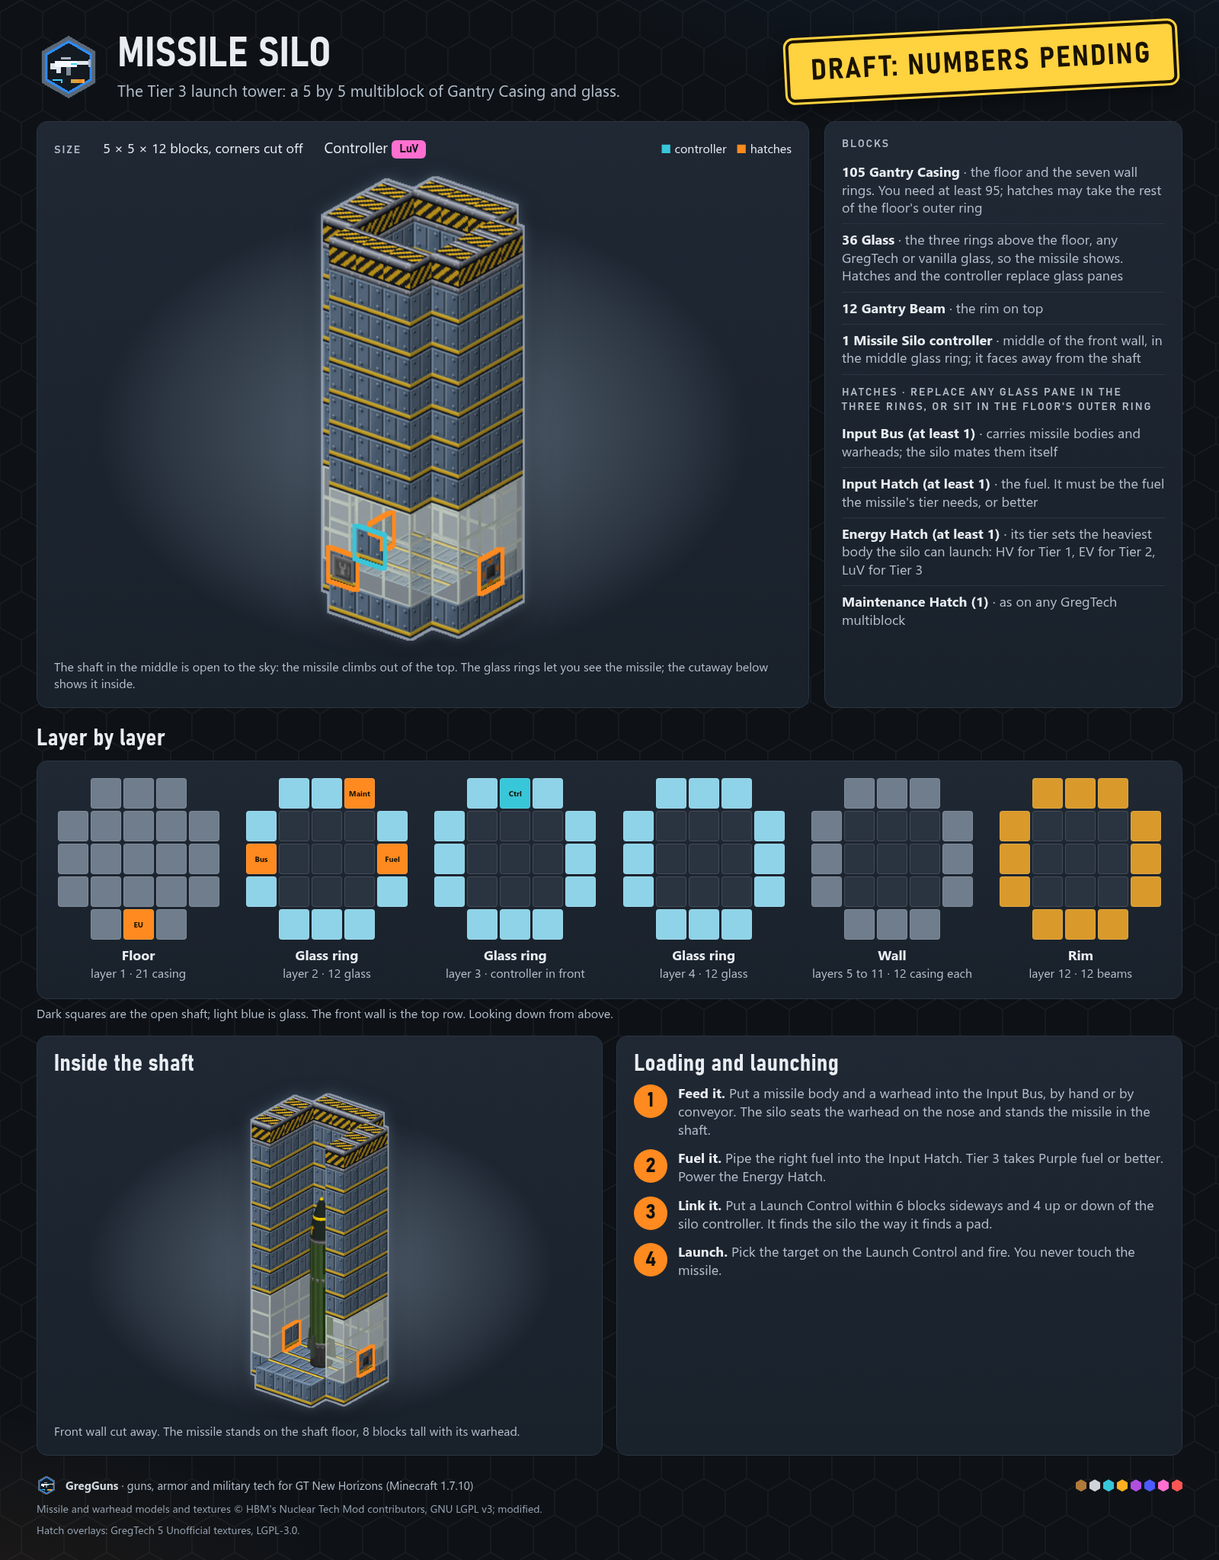
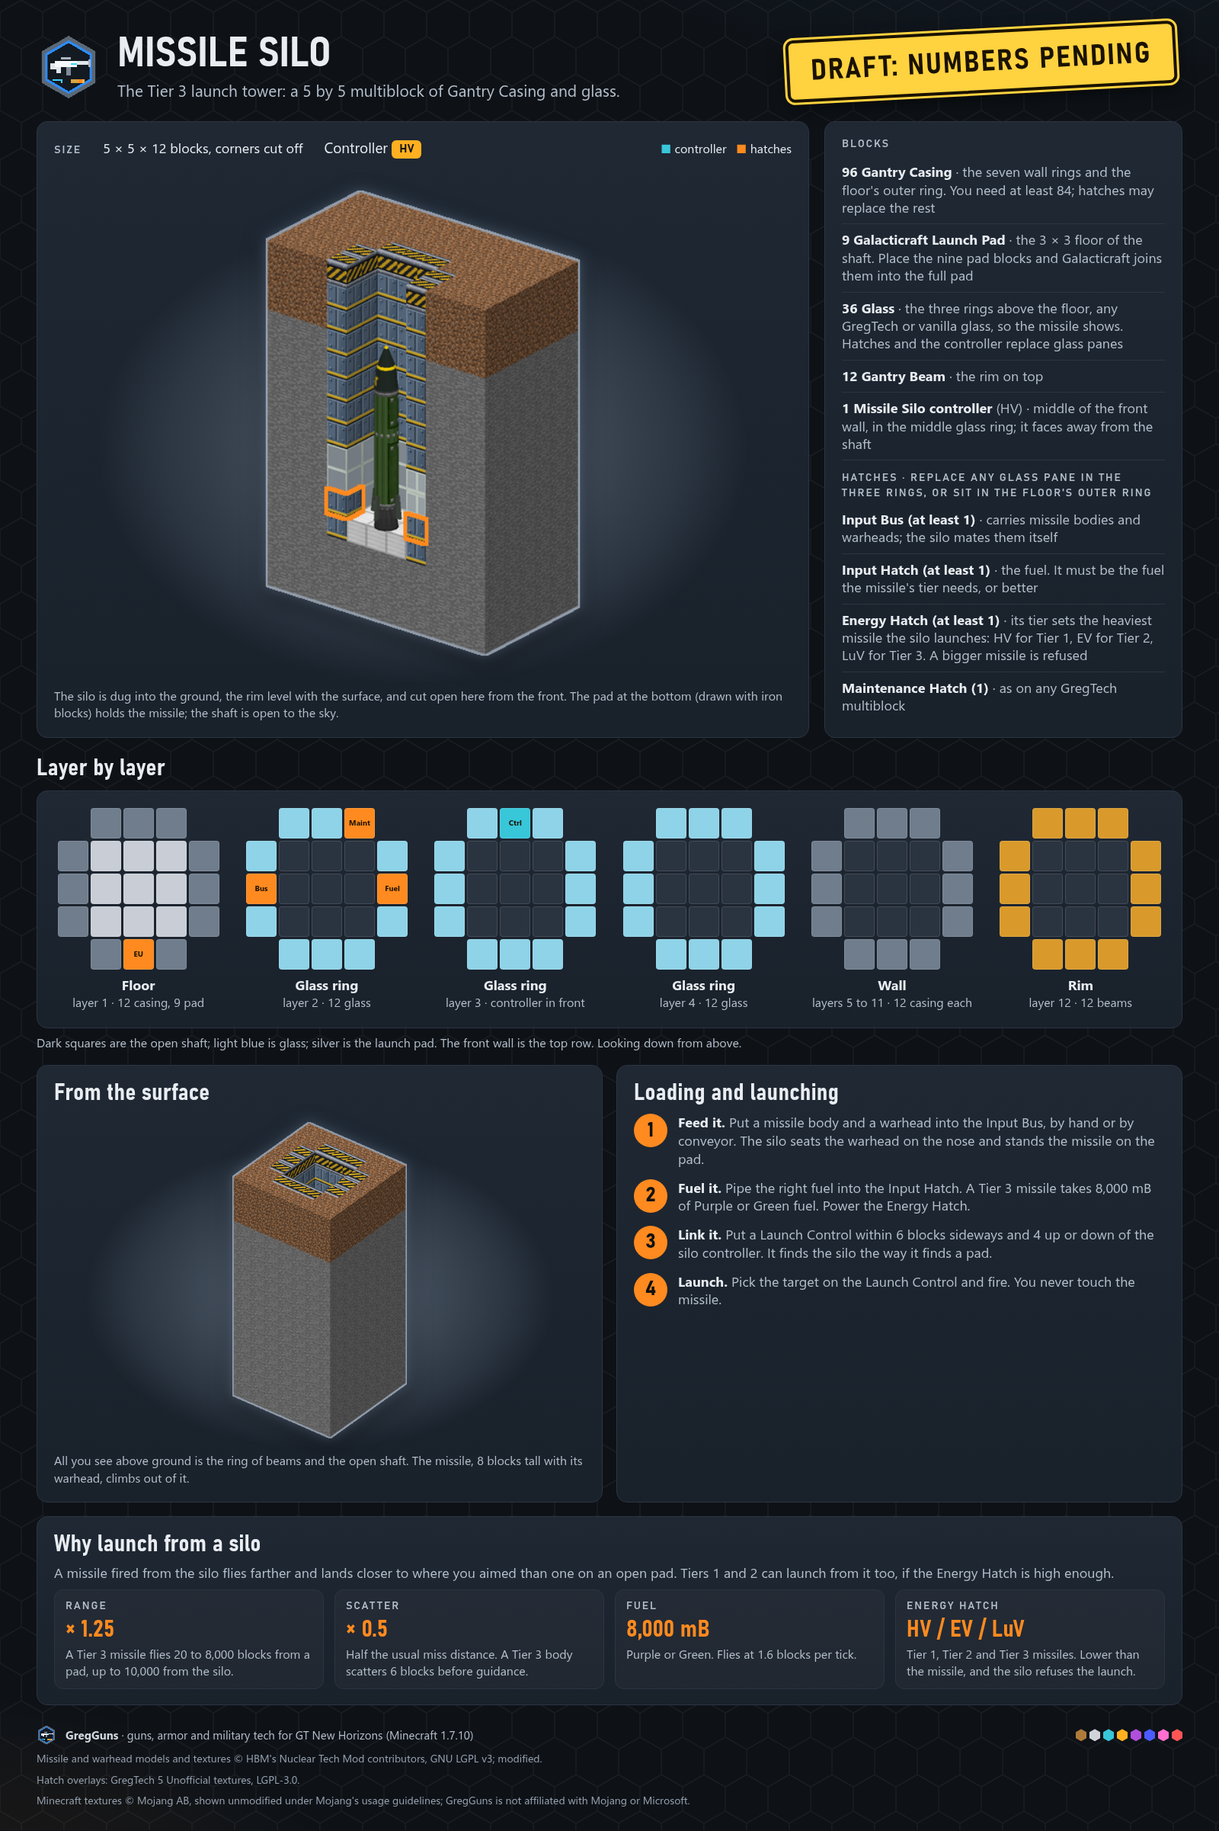
ICBM guides: silo sheet shows the buried silo, Galacticraft pad floor (drawn as iron), HV controller, energy-hatch tiers and the silo range and scatter bonus; quest text synced

Changed region(s): [[0.0312, 0.0, 0.9688, 0.9849], [0.75, 0.8617, 0.9688, 0.9541]]

diff --git a/tools/asset-gen/infographics/pages_icbm_silo.py b/tools/asset-gen/infographics/pages_icbm_silo.py
@@ -22,8 +22,9 @@ import kit as K  # noqa: E402
 import gt  # noqa: E402
 import render3d as R  # noqa: E402
 import scenes as S  # noqa: E402
+import vanilla  # noqa: E402
 from kit import chip, esc  # noqa: E402
-from pages import gti, img, page_doc  # noqa: E402
+from pages import MOJANG_CREDIT, gti, img, page_doc  # noqa: E402
 
 NTM = K.ASSETS / "models/thirdparty/ntm"
 NTM_TEX = K.ASSETS / "textures/models/thirdparty/ntm"
@@ -38,12 +39,12 @@ def plan_cells() -> list[tuple[int, int]]:
 
 
 def silo_cells() -> dict:
-    """{(x, y, z): char}: C casing, G glass, B beam, ~ the controller. Floor y0 is the full plate; y1..y3 are glass rings (the controller
+    """{(x, y, z): char}: C casing, P launch pad, G glass, B beam, ~ the controller. Floor y0 is a casing ring around the 3 x 3 pad; y1..y3 are glass rings (the controller
     replaces the middle of the front one at y2); y4..y10 are casing rings; y11 is the rim. Matches SiloShape.PIECES."""
     cells = {}
     for x, z in plan_cells():
         in_shaft = x in SHAFT and z in SHAFT
-        cells[(x, 0, z)] = "C"
+        cells[(x, 0, z)] = "P" if in_shaft else "C"
         if in_shaft:
             continue
         for y in range(1, 11):
@@ -61,11 +62,13 @@ HATCHES = [((0, 1, 2), "input_bus", LEFT), ((4, 1, 2), "input_hatch", RIGHT), ((
 def silo_build() -> S.Build:
     b = S.Build("silo")
     gc = S._casing("gantry_casing")
-    b.define("casing", "Gantry Casing", gc, "walls and floor")
+    b.define("casing", "Gantry Casing", gc, "walls and the floor ring")
     b.define("beam", "Gantry Beam", S._casing("gantry_beam"), "the rim")
+    # D66: Galacticraft textures never go on a committed sheet, so the pad is drawn as vanilla iron blocks (D55).
+    b.define("pad", "Galacticraft Launch Pad", vanilla.texture("blocks/iron_block"), "9 pad blocks, drawn here as iron")
     b.define("glass", "Borosilicate Glass", gt.bartworks("BoronSilicateGlassBlock"), "any glass tier works")
     b.define("ctrl", "Missile Silo", (gc, gc, gc), "controller, middle of the front wall")
-    b.put(silo_cells(), {"C": "casing", "G": "glass", "B": "beam", "~": ("ctrl", FRONT)})
+    b.put(silo_cells(), {"C": "casing", "P": "pad", "G": "glass", "B": "beam", "~": ("ctrl", FRONT)})
     for pos, kind, facing in HATCHES:
         b.hatch(pos, kind, facing, gc)
     return b
@@ -76,30 +79,52 @@ def missile_scene():
     body = R.obj_scene(NTM / "missile_body_t3.obj", NTM_TEX / "missile_body_t3.png")
     head = R.obj_scene(NTM / "warhead_t3.obj", NTM_TEX / "warhead_t3.png")
     sc = R.Scene()
-    sc.extend(body, R.tr(2 - 0.5 + 0, 1, 2 - 0.5))
-    sc.extend(head, R.tr(2 - 0.5 + 0, 1 + 6, 2 - 0.5))
+    sc.extend(body, R.tr(2 - 0.5 + 0, 1.2, 2 - 0.5))
+    sc.extend(head, R.tr(2 - 0.5 + 0, 1.2 + 6, 2 - 0.5))
     return sc
 
 
-def render(b: S.Build, yaw=-35, pitch=28, ppu=34, cut=None, missile=True, marks=True) -> Path:
+def ground_cells() -> dict:
+    """The earth the silo is dug into, rim flush with the ground: dirt on top of stone, around the plan and under the floor."""
+    own = set(plan_cells())
+    cells = {}
+    for x in range(-3, 8):
+        for z in range(-3, 8):
+            for y in range(-3, 12):
+                if y >= 0 and (x, z) in own:
+                    continue
+                if y < 0 and (x, z) in own and False:
+                    continue
+                cells[(x, y, z)] = "dirt" if y >= 9 else "stone"
+    return cells
+
+
+def render(b: S.Build, yaw=-35, pitch=28, ppu=34, cut=None, missile=True, marks=True, ground=False) -> Path:
     tex_sig = hashlib.sha1((NTM / "missile_body_t3.obj").read_bytes() + (NTM / "warhead_t3.obj").read_bytes()).hexdigest()[:8]
+    bl = dict(b.blocks)
+    tex = dict(b.tex)
+    if ground:
+        bl.update(ground_cells())
+        tex["dirt"] = vanilla.texture("blocks/dirt")
+        tex["stone"] = vanilla.texture("blocks/stone")
+    if cut is not None:
+        bl = {p: v for p, v in bl.items() if not cut(*p)}
 
     def make():
-        bl = b.blocks if cut is None else {p: v for p, v in b.blocks.items() if not cut(*p)}
-        tags = {k: (2 if k == "ctrl" else 1) for k in b.tex if k.startswith("h_") or k == "ctrl"} if marks else None
-        scene = R.voxel_scene(bl, b.tex, tags)
+        tags = {k: (2 if k == "ctrl" else 1) for k in tex if k.startswith("h_") or k == "ctrl"} if marks else None
+        scene = R.voxel_scene(bl, tex, tags)
         if missile:
             scene.extend(missile_scene())
         return R.trim(R.render(scene, yaw=yaw, pitch=pitch, ppu=ppu, ss=2, outline=K.RIM,
                                marks={1: K.MARK_HATCH, 2: K.MARK_CONTROLLER} if marks else None), 3)
-    params = dict(k=sorted(map(str, b.blocks.items())), t=sorted(map(str, b.tex.items())), y=yaw, p=pitch, u=ppu, m=missile,
-                  c=cut is not None, g=marks, s=tex_sig, v=1)
+    params = dict(k=sorted(map(str, bl.items())), t=sorted(map(str, tex.items())), y=yaw, p=pitch, u=ppu, m=missile,
+                  g=marks, s=tex_sig, v=3)
     return K._cached("silo", params, make)
 
 
 # ---------------------------------------------------------------- layer diagrams
 
-COLORS = {"C": "#6f7d8d", "G": "#8fd3e8", "B": "#d99a2b", "~": "#38c6d9", "h": "#ff8a1f", "S": "#2a3340", ".": "transparent"}
+COLORS = {"P": "#c9ced6", "C": "#6f7d8d", "G": "#8fd3e8", "B": "#d99a2b", "~": "#38c6d9", "h": "#ff8a1f", "S": "#2a3340", ".": "transparent"}
 
 
 def layer_grid(y: int, cells: dict, hatch_pos: dict, label: str) -> str:
@@ -112,7 +137,7 @@ def layer_grid(y: int, cells: dict, hatch_pos: dict, label: str) -> str:
                 ch, txt = "h", hatch_pos[(x, y, z)]
             elif ch == "~":
                 txt = "Ctrl"
-            elif ch is not None and ch in "CG":
+            elif ch is not None and ch in "CGP":
                 txt = ""
             elif ch == "B":
                 txt = ""
@@ -152,12 +177,12 @@ def silo() -> str:
     b = silo_build()
     cells = silo_cells()
     hp = {pos: HATCH_NAME[k] for pos, k, _ in HATCHES}
-    hero = render(b, yaw=-38, pitch=26, ppu=34, missile=False)
-    cutaway = render(b, yaw=-38, pitch=26, ppu=34, cut=lambda x, y, z: z <= 1 and x >= 1 and x <= 3 and y >= 1)
+    hero = render(b, yaw=-38, pitch=24, ppu=27, ground=True, cut=lambda x, y, z: z <= 1)
+    surface = render(b, yaw=-38, pitch=34, ppu=30, ground=True, missile=False, marks=False, cut=lambda x, y, z: x < -1 or z < -1 or x > 5 or z > 5)
     n_casing = sum(1 for v in cells.values() if v == "C")
     n_glass = sum(1 for v in cells.values() if v == "G")
     n_beam = sum(1 for v in cells.values() if v == "B")
-    layers = (layer_grid(0, cells, hp, "<b>Floor</b>layer 1 &middot; 21 casing")
+    layers = (layer_grid(0, cells, hp, "<b>Floor</b>layer 1 &middot; 12 casing, 9 pad")
               + layer_grid(1, cells, hp, "<b>Glass ring</b>layer 2 &middot; 12 glass")
               + layer_grid(2, cells, hp, "<b>Glass ring</b>layer 3 &middot; controller in front")
               + layer_grid(3, cells, hp, "<b>Glass ring</b>layer 4 &middot; 12 glass")
@@ -168,36 +193,44 @@ def silo() -> str:
         for name, why in [
             ("Input Bus (at least 1)", "carries missile bodies and warheads; the silo mates them itself"),
             ("Input Hatch (at least 1)", "the fuel. It must be the fuel the missile's tier needs, or better"),
-            ("Energy Hatch (at least 1)", "its tier sets the heaviest body the silo can launch: HV for Tier 1, EV for Tier 2, LuV for Tier 3"),
+            ("Energy Hatch (at least 1)", "its tier sets the heaviest missile the silo launches: HV for Tier 1, EV for Tier 2, LuV for Tier 3. A bigger missile is refused"),
             ("Maintenance Hatch (1)", "as on any GregTech multiblock"),
         ])
     body = f"""<div style="display:grid;grid-template-columns:1fr 470px;gap:20px">
 <div class="card" style="display:flex;flex-direction:column;min-height:680px">
-<div style="display:flex;gap:28px;align-items:baseline;flex-wrap:wrap"><span class="label">Size</span><span style="font-size:18px">5 &times; 5 &times; 12 blocks, corners cut off</span><span>Controller {chip("LuV")}</span>
+<div style="display:flex;gap:28px;align-items:baseline;flex-wrap:wrap"><span class="label">Size</span><span style="font-size:18px">5 &times; 5 &times; 12 blocks, corners cut off</span><span>Controller {chip("HV")}</span>
 <span style="font-size:16px;margin-left:auto"><b style="color:#38c6d9">&#9632;</b> controller &nbsp; <b style="color:var(--orange)">&#9632;</b> hatches</span></div>
 <div class="spot" style="flex:1;display:flex;align-items:center;justify-content:center;padding:10px 0;margin-top:8px">{img(hero, h=620, style="max-width:100%")}</div>
-<div class="muted" style="font-size:16px;margin-top:8px">The shaft in the middle is open to the sky: the missile climbs out of the top. The glass rings let you see the missile; the cutaway below shows it inside.</div></div>
+<div class="muted" style="font-size:16px;margin-top:8px">The silo is dug into the ground, the rim level with the surface, and cut open here from the front. The pad at the bottom (drawn with iron blocks) holds the missile; the shaft is open to the sky.</div></div>
 <div class="card"><div class="label" style="margin-bottom:6px">Blocks</div>
-<div class="req"><div class="t" style="grid-column:1/3"><b>{n_casing} Gantry Casing</b> &middot; the floor and the seven wall rings. You need at least 95; hatches may take the rest of the floor's outer ring</div></div>
+<div class="req"><div class="t" style="grid-column:1/3"><b>{n_casing} Gantry Casing</b> &middot; the seven wall rings and the floor's outer ring. You need at least 84; hatches may replace the rest</div></div>
+<div class="req"><div class="t" style="grid-column:1/3"><b>9 Galacticraft Launch Pad</b> &middot; the 3 &times; 3 floor of the shaft. Place the nine pad blocks and Galacticraft joins them into the full pad</div></div>
 <div class="req"><div class="t" style="grid-column:1/3"><b>{n_glass + 1} Glass</b> &middot; the three rings above the floor, any GregTech or vanilla glass, so the missile shows. Hatches and the controller replace glass panes</div></div>
 <div class="req"><div class="t" style="grid-column:1/3"><b>{n_beam} Gantry Beam</b> &middot; the rim on top</div></div>
-<div class="req"><div class="t" style="grid-column:1/3"><b>1 Missile Silo controller</b> &middot; middle of the front wall, in the middle glass ring; it faces away from the shaft</div></div>
+<div class="req"><div class="t" style="grid-column:1/3"><b>1 Missile Silo controller</b> (HV) &middot; middle of the front wall, in the middle glass ring; it faces away from the shaft</div></div>
 <div class="label" style="margin:14px 0 4px">Hatches &middot; replace any glass pane in the three rings, or sit in the floor&#39;s outer ring</div>{hatch_rows}</div></div>
 <h2 style="margin:24px 0 12px">Layer by layer</h2>
 <div class="card" style="display:flex;justify-content:space-around;gap:10px;padding:22px 14px">{layers}</div>
-<div class="muted" style="font-size:16px;margin-top:8px">Dark squares are the open shaft; light blue is glass. The front wall is the top row. Looking down from above.</div>
+<div class="muted" style="font-size:16px;margin-top:8px">Dark squares are the open shaft; light blue is glass; silver is the launch pad. The front wall is the top row. Looking down from above.</div>
 <div class="grid" style="grid-template-columns:1fr 1fr;margin-top:18px">
-<div class="card"><h2 style="margin-bottom:8px">Inside the shaft</h2><div class="spot" style="display:flex;justify-content:center;padding:10px">{img(cutaway, h=420, style="max-width:100%")}</div>
-<div class="muted" style="font-size:16px;margin-top:6px">Front wall cut away. The missile stands on the shaft floor, 8 blocks tall with its warhead.</div></div>
+<div class="card"><h2 style="margin-bottom:8px">From the surface</h2><div class="spot" style="display:flex;justify-content:center;padding:10px">{img(surface, h=420, style="max-width:100%")}</div>
+<div class="muted" style="font-size:16px;margin-top:6px">All you see above ground is the ring of beams and the open shaft. The missile, 8 blocks tall with its warhead, climbs out of it.</div></div>
 <div class="card"><h2 style="margin-bottom:10px">Loading and launching</h2><div style="display:flex;flex-direction:column;gap:14px">
-<div class="step"><span class="num">1</span><div class="t"><b>Feed it.</b> Put a missile body and a warhead into the Input Bus, by hand or by conveyor. The silo seats the warhead on the nose and stands the missile in the shaft.</div></div>
-<div class="step"><span class="num">2</span><div class="t"><b>Fuel it.</b> Pipe the right fuel into the Input Hatch. Tier 3 takes Purple fuel or better. Power the Energy Hatch.</div></div>
+<div class="step"><span class="num">1</span><div class="t"><b>Feed it.</b> Put a missile body and a warhead into the Input Bus, by hand or by conveyor. The silo seats the warhead on the nose and stands the missile on the pad.</div></div>
+<div class="step"><span class="num">2</span><div class="t"><b>Fuel it.</b> Pipe the right fuel into the Input Hatch. A Tier 3 missile takes 8,000 mB of Purple or Green fuel. Power the Energy Hatch.</div></div>
 <div class="step"><span class="num">3</span><div class="t"><b>Link it.</b> Put a Launch Control within 6 blocks sideways and 4 up or down of the silo controller. It finds the silo the way it finds a pad.</div></div>
-<div class="step"><span class="num">4</span><div class="t"><b>Launch.</b> Pick the target on the Launch Control and fire. You never touch the missile.</div></div></div></div></div>"""
+<div class="step"><span class="num">4</span><div class="t"><b>Launch.</b> Pick the target on the Launch Control and fire. You never touch the missile.</div></div></div></div></div>
+<div class="card" style="margin-top:18px"><h2 style="margin-bottom:8px">Why launch from a silo</h2>
+<div class="muted" style="font-size:18px;margin-bottom:10px">A missile fired from the silo flies farther and lands closer to where you aimed than one on an open pad. Tiers 1 and 2 can launch from it too, if the Energy Hatch is high enough.</div>
+<div class="grid" style="grid-template-columns:repeat(4,minmax(0,1fr));gap:14px">
+<div class="wcard"><div class="label">Range</div><div class="cond o" style="font-size:30px;font-weight:700">&times; 1.25</div><div class="muted" style="font-size:16px">A Tier 3 missile flies 20 to 8,000 blocks from a pad, up to 10,000 from the silo.</div></div>
+<div class="wcard"><div class="label">Scatter</div><div class="cond o" style="font-size:30px;font-weight:700">&times; 0.5</div><div class="muted" style="font-size:16px">Half the usual miss distance. A Tier 3 body scatters 6 blocks before guidance.</div></div>
+<div class="wcard"><div class="label">Fuel</div><div class="cond o" style="font-size:30px;font-weight:700">8,000 mB</div><div class="muted" style="font-size:16px">Purple or Green. Flies at 1.6 blocks per tick.</div></div>
+<div class="wcard"><div class="label">Energy Hatch</div><div class="cond o" style="font-size:30px;font-weight:700">HV / EV / LuV</div><div class="muted" style="font-size:16px">Tier 1, Tier 2 and Tier 3 missiles. Lower than the missile, and the silo refuses the launch.</div></div></div></div>"""
     return page_doc("Missile Silo", "The Tier 3 launch tower: a 5 by 5 multiblock of Gantry Casing and glass.", body,
                     extra=CSS, overlay='<div class="ribbon">Draft: numbers pending</div>',
                     credit=["Missile and warhead models and textures © HBM's Nuclear Tech Mod contributors, GNU LGPL v3; modified.",
-                            "Hatch overlays: GregTech 5 Unofficial textures, LGPL-3.0."])
+                            "Hatch overlays: GregTech 5 Unofficial textures, LGPL-3.0.", MOJANG_CREDIT])
 
 
 PAGES = {"icbm-missile-silo": silo}

diff --git a/docs/assets/MANIFEST.md b/docs/assets/MANIFEST.md
@@ -947,7 +947,7 @@ The machine-readable twin is [tools/asset-gen/manifest.json](../../tools/asset-g
 | `info.questbook` | `docs/assets/infographics/questbook.png` | 1600x1525 | Player guide: the GregGuns questbook chapters, side branches and rewards. Built by tools/asset-gen/infographics/build.py; no vector source. [Delivered: generated by tools/asset-gen/branding.py.] | #808080 #FF8000 #101418 #F2F2F2 | (new) | P2 |
 | `info.recipes_steam_and_lv` | `docs/assets/infographics/recipes-steam-and-lv.png` | 1600x2971 | Player guide: the Steam and LV crafting chains, crafting-table grids and Assembler and Ammo Press rows, read from the mod's recipe tables. Built by tools/asset-gen/infographics/build.py; no vector source. [Delivered: generated by tools/asset-gen/branding.py.] | #808080 #FF8000 #101418 #F2F2F2 | (new) | P2 |
 | `info.icbm_warheads` | `docs/assets/infographics/icbm-warheads.png` | 1600x3876 | Player guide (DRAFT, stamped; numbers pending): the Tier 1, Tier 2, Tier 3 and nuclear warheads rendered from the shipped models, every T1-T2 blast type, fill and radius, damage falloff, demolition-charge use, and the GT machines that make them. Shows HBM's Nuclear Tech Mod warhead models (LGPL-3.0). Built by tools/asset-gen/infographics/build.py; no vector source. [Delivered: generated by tools/asset-gen/branding.py.] | #808080 #FF8000 #101418 #F2F2F2 | (new) | P2 |
-| `info.icbm_missile_silo` | `docs/assets/infographics/icbm-missile-silo.png` | 1600x2047 | Build guide (DRAFT, stamped; numbers pending): the Missile Silo multiblock, layer by layer, with block counts, hatches and a Tier 3 missile standing in the shaft. Shows HBM's Nuclear Tech Mod missile models (LGPL-3.0). Built by tools/asset-gen/infographics/build.py; no vector source. Built by tools/asset-gen/infographics/build.py; no vector source. [Delivered: generated by tools/asset-gen/branding.py.] | #808080 #FF8000 #101418 #F2F2F2 | (new) | P2 |
+| `info.icbm_missile_silo` | `docs/assets/infographics/icbm-missile-silo.png` | 1600x2402 | Build guide (DRAFT, stamped; numbers pending): the Missile Silo multiblock, layer by layer, with block counts, hatches and a Tier 3 missile standing in the shaft. Shows HBM's Nuclear Tech Mod missile models (LGPL-3.0). Built by tools/asset-gen/infographics/build.py; no vector source. Built by tools/asset-gen/infographics/build.py; no vector source. [Delivered: generated by tools/asset-gen/branding.py.] | #808080 #FF8000 #101418 #F2F2F2 | (new) | P2 |
 | `info.icbm_first_missile` | `docs/assets/infographics/icbm-first-missile.png` | 1600x2882 | Player guide (DRAFT, stamped; numbers pending): the Tier 1 and Tier 2 missiles on the Galacticraft pad, and the steps from chip and schematic to body, stacking, fuel, launch control and impact. Shows HBM's Nuclear Tech Mod missile and warhead models (LGPL-3.0). Built by tools/asset-gen/infographics/build.py; no vector source. [Delivered: generated by tools/asset-gen/branding.py.] | #808080 #FF8000 #101418 #F2F2F2 | (new) | P2 |
 
 ## 10. Excluded on purpose

diff --git a/docs/gregguns-spec/12-questbook/quest-line.md b/docs/gregguns-spec/12-questbook/quest-line.md
@@ -327,7 +327,7 @@ The layout is a forest of short trees on a 36 unit pitch (a 24 unit box plus 12 
 | `gg.icbm.launch` | First Launch | HV | Press Launch, or send the block a redstone pulse. After two seconds of warm-up the missile climbs, flies its arc and detonates on impact; a Tier 1 flight at full range takes about a minute. The pad, the fuel loader and the Launch Control come through unharmed. Make sure nobody stands at the target. | checkbox | - | `gg.icbm.control` | 1068, 420 (24) |
 | `gg.icbm.t2_missile` | Tier 2 Missile | EV | Tier 2 flies up to 3,000 blocks and carries a titanium-cased warhead. Its chip is made at EV, its body takes six titanium plates, and it burns 4,000 mB of Dense Hydrazine or better. Build it, fuel it and launch it. | checkbox | - | `gg.icbm.launch`, `gg.icbm.t2_casing` | 1104, 420 (24) |
 | `gg.icbm.assembly_line` | Automate the Body | EV | Scan one hand-built body into a Data Stick in the Scanner, then the Assembly Line builds that body from the same parts plus 250 L of lubricant: 30 seconds for Tier 1, 45 for Tier 2. | checkbox | - | `gg.icbm.body` | 924, 456 (24) |
-| `gg.icbm.silo` | Missile Silo | LuV | Tier 3 missiles launch from the Missile Silo: a 5 by 5 tower of Gantry Casing and glass around an open 3 by 3 shaft, with an Input Bus, Input Hatch, Energy Hatch and Maintenance Hatch in the glass rings or the floor, and a Launch Control within 6 blocks. Draft: the icon is a stand-in until the silo and Tier 3 body land. |
+| `gg.icbm.silo` | Missile Silo | LuV | Missiles launch from the Missile Silo: a 5 by 5 tower of Gantry Casing and glass around an open 3 by 3 shaft, with a Galacticraft Launch Pad for its floor. The controller is HV and the Energy Hatch sets the tier it launches (HV, EV, LuV for Tiers 1 to 3). A silo shot flies 25% farther and scatters half as much. Draft: the icon is a stand-in until the silo and Tier 3 body land. |
 | `gg.icbm.nuclear` | Nuclear Warhead | ZPM | The nuclear warhead is a Tier 3 casing at ZPM, made in the Assembler from tungstensteel plates, Industrial TNT, Plastic Explosive, uranium-235, plutonium and a Fuze Assembly Mk III. It flies only on a Tier 3 missile from the silo. A full warhead blasts 64 blocks, and nothing living inside the inner 38 survives, bosses included. The top layer of ground is left irradiated for about an hour: cross it in full hazmat armor. Draft: numbers may move; the icon is a stand-in. |
 
 ## Coverage matrix
